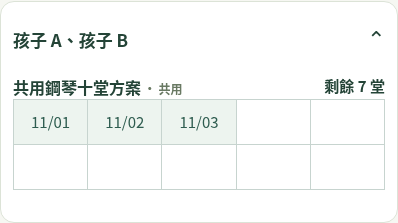
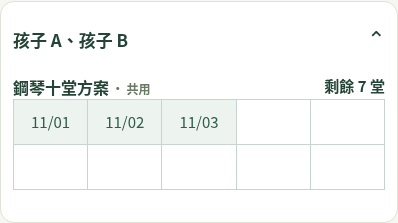
Use original fee name in shared plan preview

Changed region(s): [[0.0302, 0.3498, 0.4824, 0.4305]]

diff --git a/scripts/qa/course-phone-sync-fixture.tsx b/scripts/qa/course-phone-sync-fixture.tsx
@@ -8,7 +8,7 @@ let phase=0;
 function summary():Awaited<ReturnType<typeof loadCoursePhoneSummary>>{
  if(phase===3)return {success:true,sharedPlans:[],learners:[]};
  if(phase===5){
- const card={id:'shared-card',name:'共用鋼琴十堂方案',unit:'SESSION' as const,remaining:7,held:0,available:7,shared:true,closed:false,expired:false,expiresAt:null,activationDays:null,purchase:null,grid:{total:10,dates:['2026-11-01T02:00:00Z','2026-11-02T02:00:00Z','2026-11-03T02:00:00Z']}};
+ const card={id:'shared-card',name:'鋼琴十堂方案',unit:'SESSION' as const,remaining:7,held:0,available:7,shared:true,closed:false,expired:false,expiresAt:null,activationDays:null,purchase:null,grid:{total:10,dates:['2026-11-01T02:00:00Z','2026-11-02T02:00:00Z','2026-11-03T02:00:00Z']}};
  return {success:true,learners:['A','B'].map(name=>({id:name,name:'孩子 '+name,cards:[card],upcoming:[],history:[]})),sharedPlans:[{card,learnerNames:['孩子 A','孩子 B']}]};
  }
  const backfilled=phase===1,voided=phase===4;
